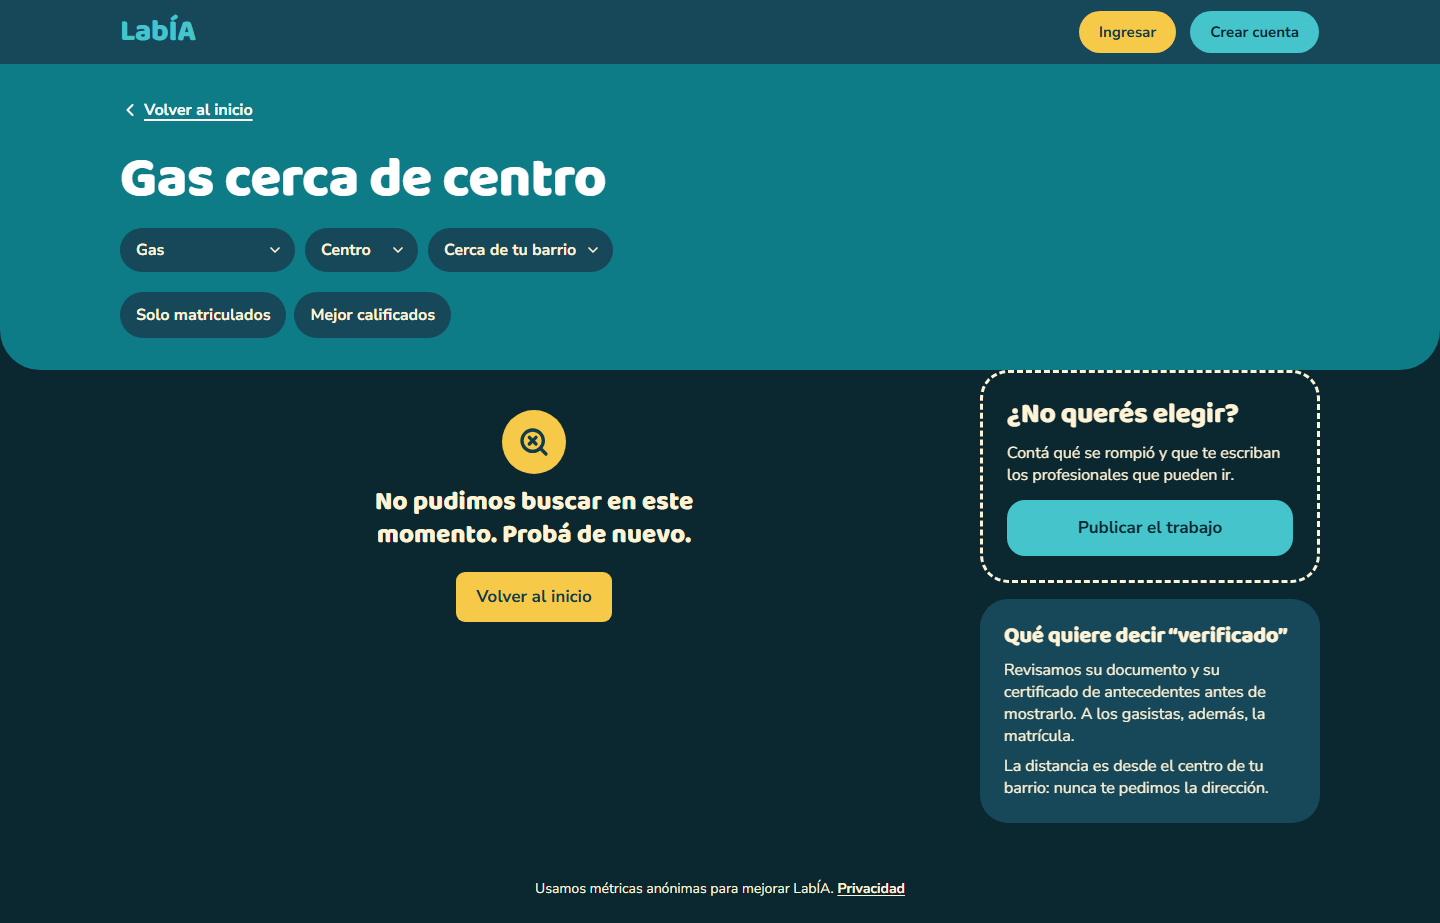
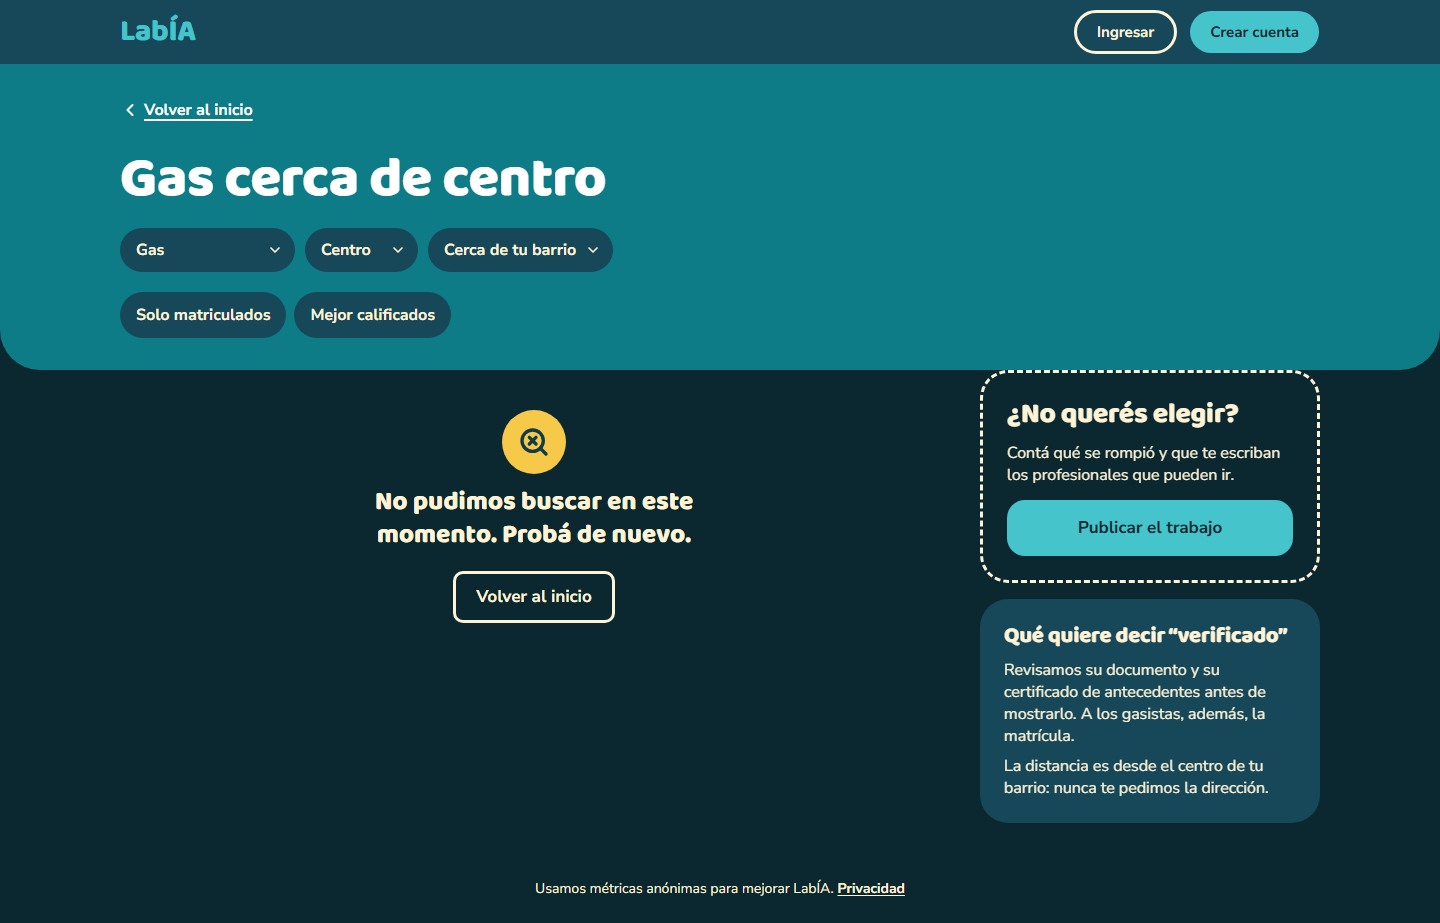
LAB-86: secundario y peligro con borde de 3 px como el prototipo, Tarjeta sin anillo
secundario usa outline de shadcn con borde texto y fondo transparente (sin relleno sol);
peligro lleva borde de 3 px error sobre superficie. Tarjeta apaga el ring-1 de Card y su
JSDoc aclara a dónde va className con como. Capturas regeneradas.

Changed region(s): [[0.3125, 0.6067, 0.4375, 0.6977], [0.75, 0.0, 0.8125, 0.0607]]

diff --git a/src/components/ui/Boton.tsx b/src/components/ui/Boton.tsx
@@ -10,8 +10,9 @@ import { SIN_ANILLO_BOTON } from "./foco";
 /**
  * Capa fina sobre el `Button` de shadcn (LAB-86). Variantes de LabÍA → variantes de shadcn:
  * - principal → default: turquesa con texto sobre-accion. Una por pantalla, abajo.
- * - secundario → secondary: sol con texto azul noche.
- * - peligro → destructive: error sobre un tinte suave (cancelar, borrar, suspender).
+ * - secundario → outline: borde de 3 px `texto` y fondo transparente, como el prototipo (el sol es el
+ *   color de lo elegido, no de un botón).
+ * - peligro → destructive: borde de 3 px `error` sobre superficie (cancelar, borrar, suspender).
  * - enlace → link: texto en negrita con subrayado. Nunca accion sobre arena (4,48:1).
  *
  * Los nombres viejos siguen funcionando para no romper las pantallas que todavía no se rehacen:
@@ -43,7 +44,7 @@ const VARIANTE_REAL: Record<VarianteBoton, VarianteReal> = {
 
 const VARIANTE_SHADCN = {
   principal: "default",
-  secundario: "secondary",
+  secundario: "outline",
   peligro: "destructive",
   enlace: "link",
 } as const;
@@ -51,10 +52,12 @@ const VARIANTE_SHADCN = {
 // El texto del enlace va en `foreground` (azul mar): `primary` sobre arena no llega a 4,5:1.
 const VARIANTES: Record<VarianteReal, string> = {
   principal: "active:opacity-90",
-  secundario: "",
+  // Se pisa lo de oscuro de `outline` (borde `input`, fondo `input/30`): el prototipo es igual en los dos temas.
+  secundario:
+    "border-[3px] border-foreground bg-transparent text-foreground hover:bg-card hover:text-foreground aria-expanded:bg-card dark:border-foreground dark:bg-transparent dark:hover:bg-card",
   // El tinte `destructive/20` de shadcn en oscuro deja el texto en 3,6:1: se usa superficie y borde.
   peligro:
-    "border-destructive bg-card hover:bg-destructive/10 dark:bg-card dark:hover:bg-destructive/10",
+    "border-[3px] border-destructive bg-card hover:bg-destructive/10 dark:border-destructive dark:bg-card dark:hover:bg-destructive/10",
   enlace: "h-auto min-h-11 px-1 font-bold text-foreground underline decoration-2 hover:underline",
 };
 

diff --git a/src/components/ui/Boton.test.tsx b/src/components/ui/Boton.test.tsx
@@ -36,11 +36,16 @@ describe("Boton", () => {
     }
   });
 
-  it("secundario: variante secondary de shadcn (sol)", () => {
+  it("secundario: borde de 3 px color texto y fondo transparente, sin relleno sol", () => {
     render(<Boton variante="secundario">Cancelar</Boton>);
     const boton = screen.getByRole("button", { name: "Cancelar" });
-    expect(boton).toHaveClass("bg-secondary", "text-secondary-foreground");
-    expect(boton).not.toHaveClass("bg-primary");
+    expect(boton).toHaveClass(
+      "border-[3px]",
+      "border-foreground",
+      "bg-transparent",
+      "text-foreground",
+    );
+    expect(boton).not.toHaveClass("bg-secondary", "bg-primary");
   });
 
   it("enlace: texto en negrita con subrayado, sin tamaño de botón", () => {
@@ -98,7 +103,7 @@ describe("Boton", () => {
       </Boton>,
     );
     const boton = screen.getByRole("button", { name: "Cancelar trabajo" });
-    expect(boton).toHaveClass("text-destructive", "border-destructive", "bg-card");
+    expect(boton).toHaveClass("text-destructive", "border-[3px]", "border-destructive", "bg-card");
     expect(boton).not.toHaveClass("bg-destructive");
     expect(ref.current).toBe(boton);
   });
@@ -111,7 +116,7 @@ describe("Boton", () => {
     );
     const enlace = screen.getByRole("link", { name: "Crear cuenta" });
     expect(enlace).toHaveAttribute("href", "/registro");
-    expect(enlace).toHaveClass("bg-secondary");
+    expect(enlace).toHaveClass("border-foreground");
   });
 
   it("como enlace cargando no recibe clics ni foco", () => {

diff --git a/src/components/ui/Tarjeta.tsx b/src/components/ui/Tarjeta.tsx
@@ -17,11 +17,14 @@ type Props = Omit<ComponentProps<"div">, "className" | "ref"> & {
  * Tarjeta: capa fina sobre el `Card` de shadcn. Superficie blanca, radio de shadcn, padding 16,
  * sin sombra. Los hijos se apilan como en un `div` común (sin el `flex-col` con aire de `Card`);
  * si hace falta, `className` agrega `flex flex-col gap-3`. Con `como` distinto de `div` envuelve la
- * tarjeta en ese elemento (por ejemplo `article` o `section` con `aria-labelledby`).
+ * tarjeta en ese elemento (por ejemplo `article` o `section` con `aria-labelledby`): ahí `className`
+ * va a la `Card` de adentro y el resto de las props al envoltorio, así que una clase de ubicación en
+ * una grilla (`col-span-*`) no llega al envoltorio. Sin el anillo `ring-1` de `Card` (el prototipo es
+ * sin borde).
  */
 export function Tarjeta({ como = "div", borde = false, className, children, ...resto }: Props) {
   const clases = cn(
-    "block gap-0 overflow-visible p-4 text-base",
+    "block gap-0 overflow-visible p-4 text-base ring-0",
     borde && "border-2 border-foreground",
     className,
   );

diff --git a/src/components/ui/basicos.test.tsx b/src/components/ui/basicos.test.tsx
@@ -68,7 +68,7 @@ describe("Tarjeta", () => {
     );
     const sola = screen.getByText("Sola");
     expect(sola).toHaveClass("rounded-xl", "p-4", "bg-card");
-    expect(sola).not.toHaveClass("border-2");
+    expect(sola).not.toHaveClass("border-2", "ring-1");
     const conBorde = screen.getByText("Con borde");
     expect(conBorde.closest("article")).not.toBeNull();
     expect(conBorde).toHaveClass("border-2", "border-foreground");
